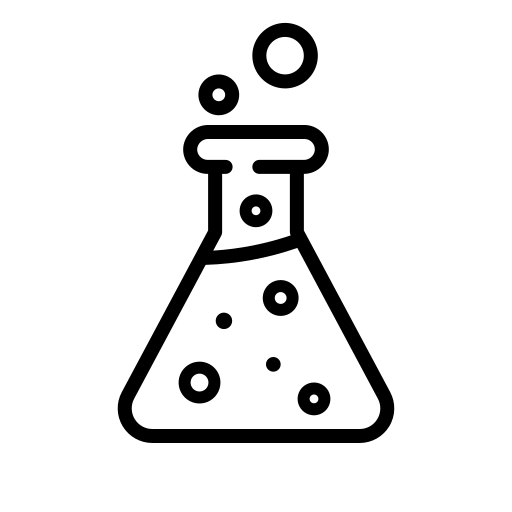
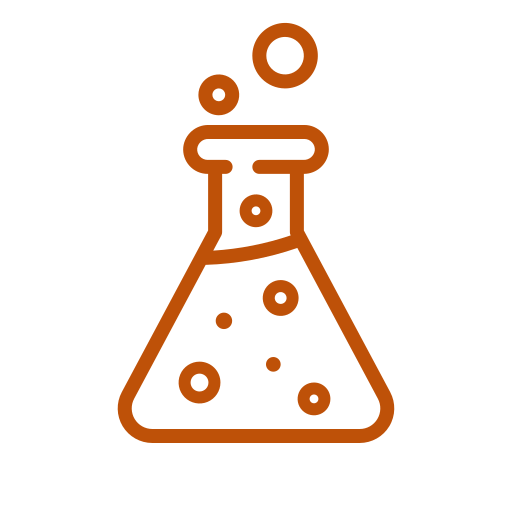
view notes taking done

diff --git a/src/main/java/com/example/projectp1/Controller/ExperimentSpace.java b/src/main/java/com/example/projectp1/Controller/ExperimentSpace.java
@@ -4,7 +4,6 @@ import com.example.projectp1.FXObjects.*;
 import com.example.projectp1.Model.*;
 import com.example.projectp1.TestExperimentSpace;
 import javafx.animation.FadeTransition;
-import javafx.animation.ParallelTransition;
 import javafx.animation.RotateTransition;
 import javafx.application.Platform;
 import javafx.collections.FXCollections;
@@ -367,10 +366,6 @@ public class ExperimentSpace implements Initializable {
     - There is at least one test tube in the experiment space
     - There is a selected test tube for adding the substances
     - The selected test tube already contains salt to be test on
-
-    Extra functionality:
-    - Testing chemicals and some salts are different to tell because of their color and transparency
-    --> if adding is successful, text will show and fade on screen to tell user
      */
     public void addSubstance(ActionEvent event) {
         try {
@@ -570,6 +565,22 @@ public class ExperimentSpace implements Initializable {
         }
     }
 
+    public void saveQueries(ActionEvent event) {
+        try {
+            FXMLLoader fxmlLoader = new FXMLLoader(TestExperimentSpace.class.getResource("note.fxml"));
+            Parent root = fxmlLoader.load();
+            Stage stage = new Stage();
+            stage.getIcons().add(new Image(TestExperimentSpace.class.getResourceAsStream("chemical.png")));
+            Scene scene = new Scene(root);
+//            scene.getStylesheets().add(TestExperimentSpace.class.getResource("View/logInPage.css").toExternalForm());
+            stage.setScene(scene);
+            stage.setTitle("About the Programmer");
+            stage.showAndWait();
+        } catch (Exception ex) {
+            ex.printStackTrace();
+        }
+    }
+
 
 
 
@@ -612,6 +623,11 @@ public class ExperimentSpace implements Initializable {
 
     @FXML
     private MenuItem aboutProgrammer;
+
+    public void clearAll(ActionEvent event) {
+        getExperimentSpace().getChildren().clear();
+        getHistory().clearAll();
+    }
 
     public void aboutPage(ActionEvent event) {
         try {

diff --git a/src/main/java/com/example/projectp1/Controller/QuickNote.java b/src/main/java/com/example/projectp1/Controller/QuickNote.java
@@ -1,0 +1,20 @@
+package com.example.projectp1.Controller;
+
+import javafx.fxml.FXML;
+import javafx.fxml.Initializable;
+import javafx.scene.control.MenuItem;
+
+import java.net.URL;
+import java.util.ResourceBundle;
+
+public class QuickNote implements Initializable {
+    @FXML
+    private MenuItem saveProgress;
+
+    @FXML
+    private MenuItem exit;
+    @Override
+    public void initialize(URL url, ResourceBundle resourceBundle) {
+
+    }
+}

diff --git a/src/main/java/com/example/projectp1/Model/History.java b/src/main/java/com/example/projectp1/Model/History.java
@@ -67,6 +67,15 @@ public class History {
         this.splint = splint;
     }
 
+    public void clearAll() {
+        this.getTubes().clear();
+        this.getSplint().clear();
+        this.getRedLitmus().clear();
+        this.setLighter(null);
+        this.getBlueLitmus().clear();
+        this.setBunsenBurner(null);
+    }
+
     //    private ArrayList<Cation> cations;
 //    public ArrayList<Cation> getCations() {
 //        return cations;
